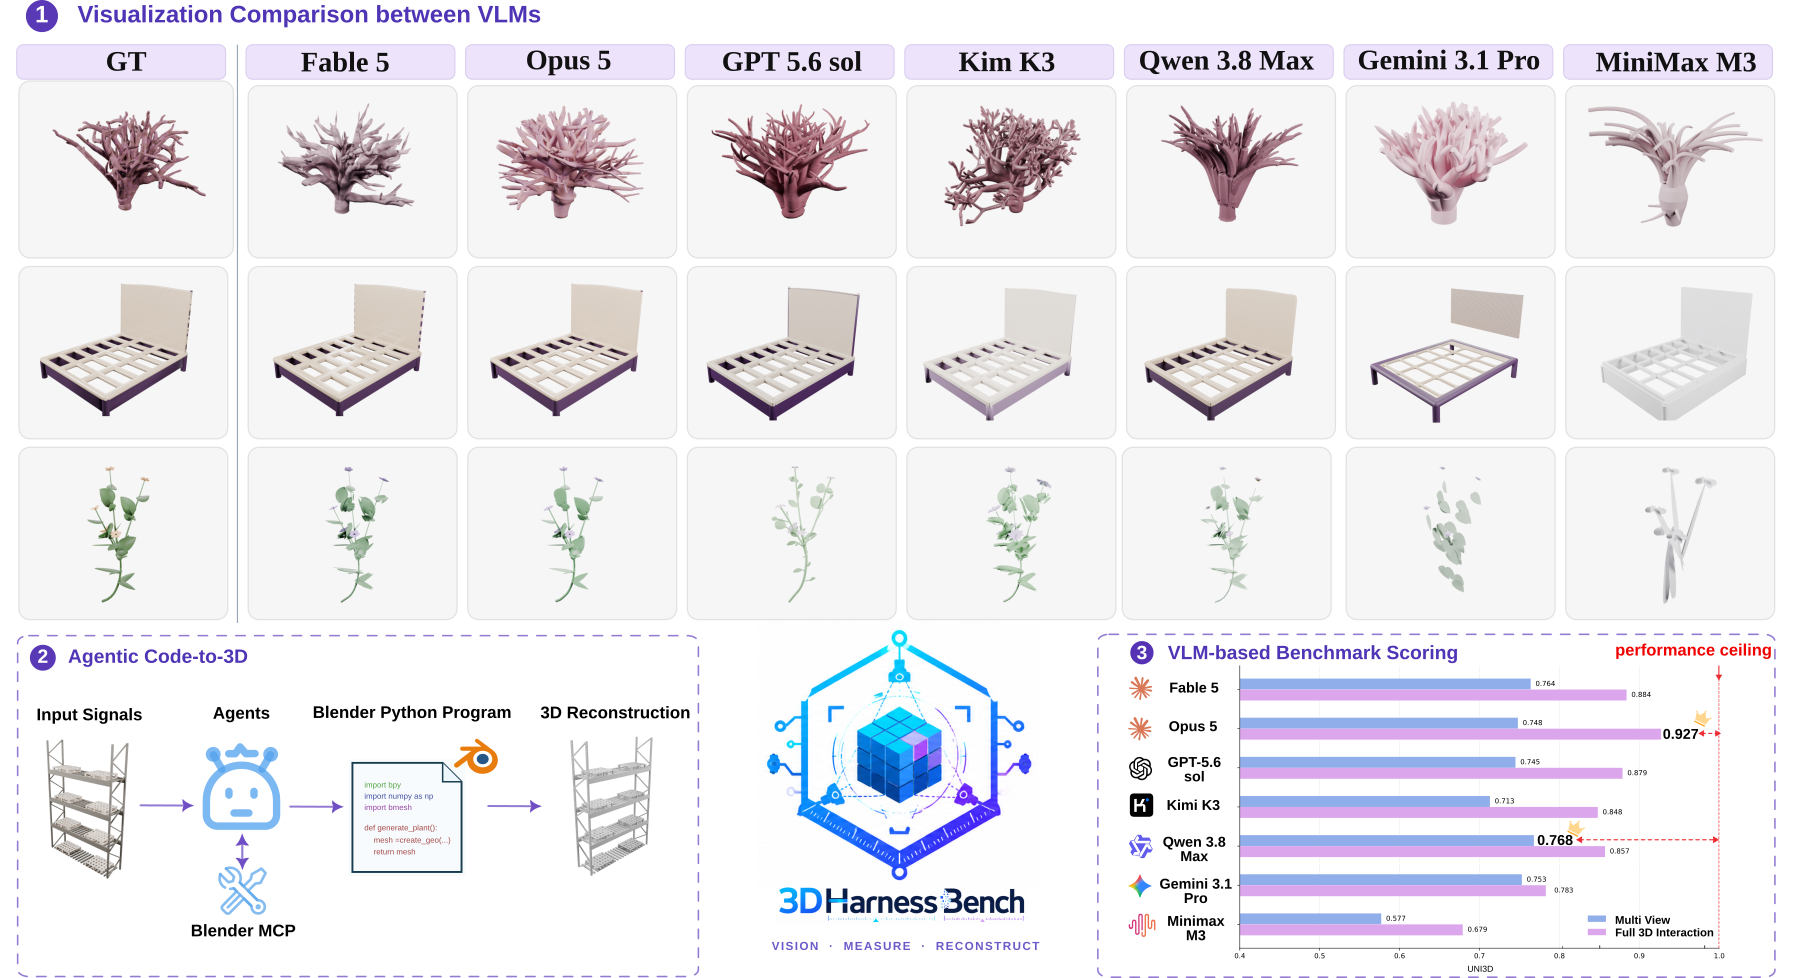
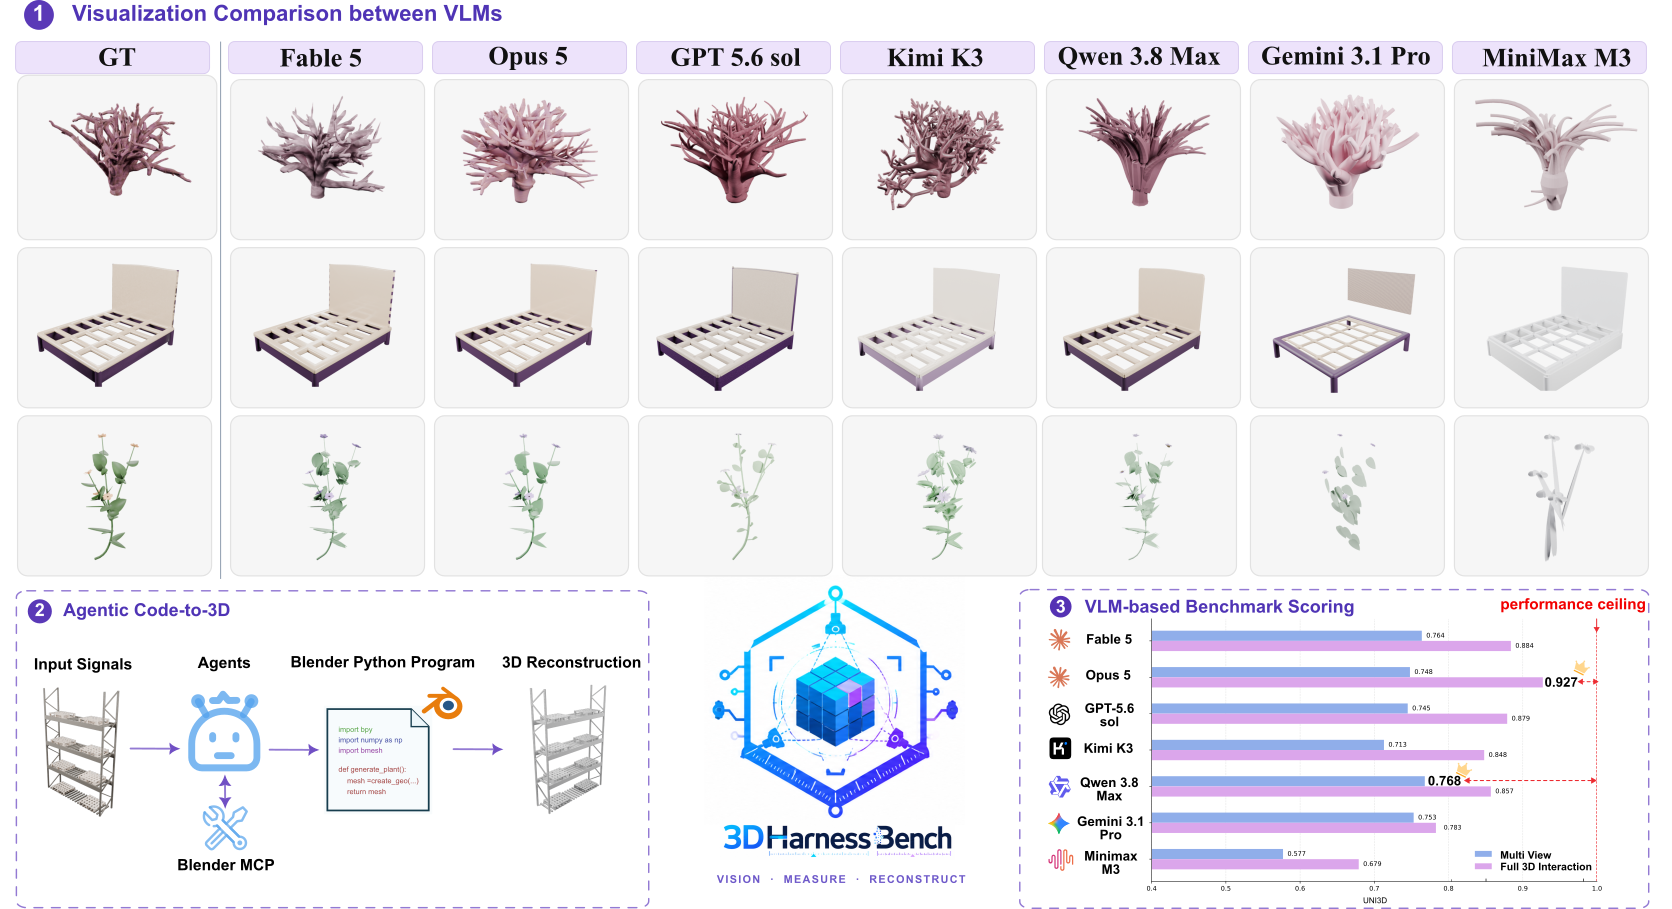
update page

diff --git a/index.html b/index.html
@@ -960,7 +960,8 @@
         <section class="section container" id="acknowledgements">
             <h2>Acknowledgements</h2>
             <p class="acknowledgements-text">Parts of this work were supported by the ERC Consolidator Grant 101087347
-                (VEGA), as well as gifts from Ansys Inc., and Adobe Research.</p>
+                (VEGA), Institut Carnot TSN, as well as gifts
+                from Ansys Inc., and Adobe Research.</p>
         </section>
         <!-- 8. BIBTEX -->
         <section class="section section-soft" id="bibtex">
